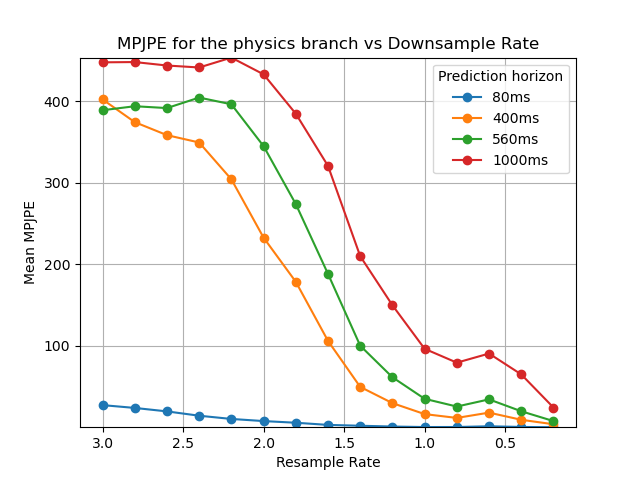
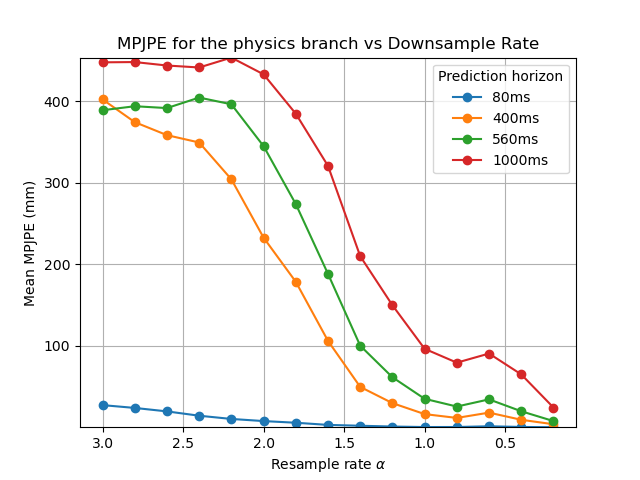
Fix axis titles

Changed region(s): [[0.4062, 0.9375, 0.5938, 1.0], [0.0312, 0.375, 0.0625, 0.6562]]

diff --git a/exps/run/single_evaluate_physmop.py b/exps/run/single_evaluate_physmop.py
@@ -264,8 +264,8 @@ if __name__ == "__main__":
         plt.figure()
         for i, label in enumerate(["80ms", "400ms", "560ms", "1000ms"]):
             plt.plot(downsample_rates, results[:, i], marker='o', label=label)
-        plt.xlabel('Resample Rate')
-        plt.ylabel('Mean MPJPE')
+        plt.xlabel(r'Resample rate $\alpha$')
+        plt.ylabel(r'Mean MPJPE (mm)')
         plt.title(branch_titles[branch])
         plt.gca().invert_xaxis()
         plt.grid(True)
